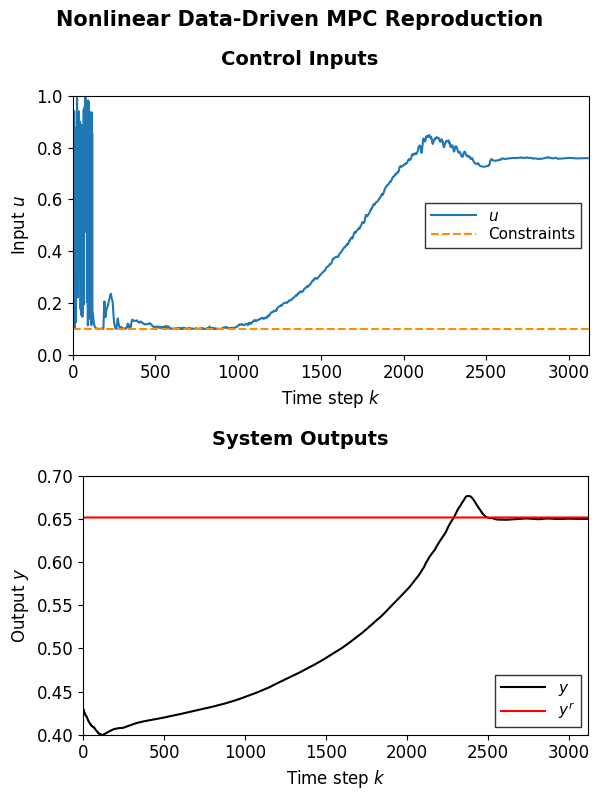
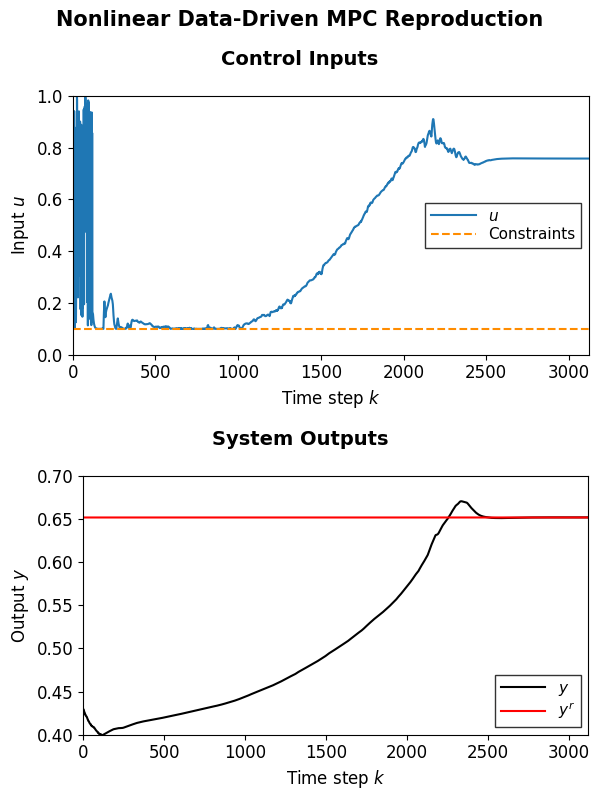
Update media in `README.md` with latest results
- Set the default seed in LTI controller reproduction script to 4.
- Set the seed for the nonlinear controller example commands to 0
  in `README.md`.
- Update media files with outputs generated using the current
  controllers.

This change ensures that the images and GIFs in `README.md` closely
resemble the examples presented in the reference papers, and
can be reproduced using the provided example commands.

diff --git a/examples/lti_control/robust_lti_dd_mpc_reproduction.py b/examples/lti_control/robust_lti_dd_mpc_reproduction.py
@@ -84,7 +84,7 @@ plot_params_config_path = os.path.join(plot_params_config_dir,
 
 # Simulation parameters
 default_t_sim = 600  # Default simulation length in time steps
-default_seed = 0  # Default seed for the RNG
+default_seed = 4  # Default seed for the RNG
 
 # Paper reproduction parameters (based on the example from Section V of [2])
 y_0 = [0.4, 0.4]  # Initial system output for reproduction
@@ -117,7 +117,7 @@ def parse_args() -> argparse.Namespace:
     parser.add_argument("--seed", type=int, default=default_seed,
                         help="Seed for Random Number Generator "
                         "initialization to ensure reproducible results. "
-                        "Defaults to 0.")
+                        "Defaults to 4.")
     # Verbose argument
     parser.add_argument("--verbose", type=int, default=2,
                         choices=[0, 1, 2],

diff --git a/README.md b/README.md
@@ -109,10 +109,10 @@ To run the example scripts, use the following commands:
 
 - **Data-Driven MPC for Nonlinear systems**:
     
-    Run the example script with a `seed` of `2`, a simulation length of `3000` steps, a verbosity level of `1`, and save the generated animation to a file:
+    Run the example script with a `seed` of `0`, a simulation length of `3000` steps, a verbosity level of `1`, and save the generated animation to a file:
     
     ```bash
-    python examples/nonlinear_control/nonlinear_dd_mpc_example.py --seed 2 --t_sim 3000 --verbose 1 --save_anim
+    python examples/nonlinear_control/nonlinear_dd_mpc_example.py --seed 0 --t_sim 3000 --verbose 1 --save_anim
     ```
 
 > [!NOTE]
@@ -163,7 +163,7 @@ Reproduction scripts are provided to validate our implementations by comparing t
 
     To run the script, execute the following command:
     ```bash
-    python examples/nonlinear_control/nonlinear_dd_mpc_example.py --seed 2
+    python examples/nonlinear_control/nonlinear_dd_mpc_example.py --seed 0
     ```
     
 The figures below show the expected output from executing these scripts. The graphs from our results closely resemble those shown in **Fig. 2 of** [[1]](#1) and **Fig. 2 of** [[2]](#2), with minor differences due to randomization.
